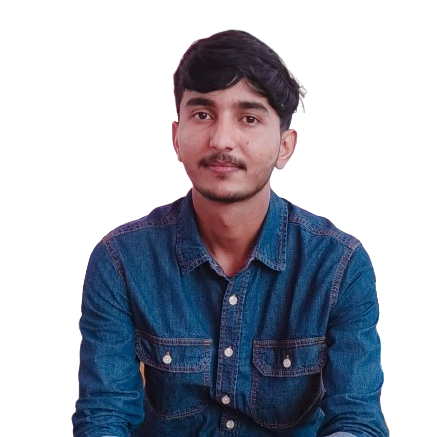
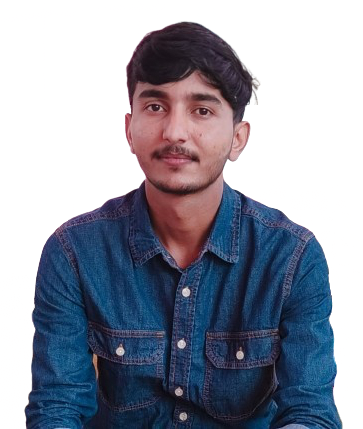
Some improvements

diff --git a/src/sections/About.jsx b/src/sections/About.jsx
@@ -8,7 +8,7 @@ export default function ({ setShowContact, aboutRef }) {
       ref={aboutRef}
       className="scroll-mt-16 w-full mb-8 my-4 py-8 lg:px-12 md:px-4 sm:px-2"
     >
-      <h1 className="font-bold lg:text-5xl md:text-4xl text-4xl text-center text-[var(--text)] my-12">
+      <h1 className="font-bold lg:text-5xl md:text-4xl text-4xl text-center text-[var(--text)] my-8">
         <span className="text-[var(--text-green)]">Who</span> I Am
       </h1>
       <div className="flex sm:flex-row flex-col items-center w-full h-full">
@@ -16,41 +16,27 @@ export default function ({ setShowContact, aboutRef }) {
           <img
             src={MyPhoto}
             alt="profile-picture"
-            className="profile-image sm:w-[75%] w-[60%]"
+            className="profile-image w-[50%] bg-[var(--bg-light)] rounded-2xl shadow-2xl"
           />
-          <h1 className="text-2xl text-[var(--text-green-light)] my-4 py-2">
-            👋🏻 Hello
-          </h1>
         </div>
         <div className="lg:w-[45%] md:w-[70%] sm:w-[60%] w-[85%] text-[var(--text)] leading-relaxed lg:text-base text-sm px-4">
           <p className="my-4">
-            Hi, I'm Suresh Jat, a passionate full-stack web developer and
-            problem solver who loves turning ideas into real-world digital
-            experiences. My journey started with a deep curiosity about how the
-            web works, which led me to explore everything from data structures
-            and algorithms to building full-stack applications using modern
-            frameworks.
+            Hi, I'm Suresh Jat, a passionate full-stack web developer who loves
+            turning ideas into real-world digital experiences. My journey began
+            with curiosity about how the web works, which led me from mastering
+            data structures and algorithms to building full-stack applications
+            with modern frameworks.
           </p>
           <p className="my-4">
-            I'm currently focused on building clean, performant, and
-            user-friendly web apps with the MERN stack (MongoDB, Express, React,
-            Node.js). Alongside that, I'm constantly improving my skills in
-            authentication, real-time communication, and responsive UI
-            development.
+            I specialize in the MERN stack (MongoDB, Express, React, Node.js),
+            creating clean, performant, and user-friendly web apps. Alongside
+            development, I actively practice DSA through platforms like
+            LeetCode, which strengthens my ability to write optimized and
+            scalable code. Balancing logic and creativity, I enjoy everything
+            from designing backend systems to crafting responsive, pixel-perfect
+            frontends.
           </p>
-          <p className="my-4">
-            What truly drives me is the balance between logic and creativity —
-            whether I'm writing elegant backend logic or crafting pixel-perfect
-            frontends. I enjoy collaborating, debugging complex issues, and
-            learning new tools that can make development more efficient and
-            enjoyable.
-          </p>
-          <p className="my-4">
-            In addition to development, I'm deeply interested in solving
-            algorithmic problems and have actively practiced DSA (Data
-            Structures & Algorithms) through platforms like LeetCode. This helps
-            me write optimized and scalable code.
-          </p>
+
           <div>
             <ContactButton setShowContact={setShowContact} />
           </div>

diff --git a/src/Components/SkillBox.jsx b/src/Components/SkillBox.jsx
@@ -20,7 +20,7 @@ export default function SkillBox({ techStack }) {
               duration: 0.3,
             }}
             key={ind}
-            className="text-[var(--text)] md:min-h-24 md:min-w-24 sm:min-h-12 sm:min-w-12 min-h-4 min-w-4 sm:m-2 sm:p-5 m-2 p-3 flex flex-col justify-center items-center gap-3 rounded-lg bg-[var(--bg-light)] shadow hover:shadow-xl md:text-base text-sm"
+            className="text-[var(--text)] md:min-h-24 md:min-w-24 sm:min-h-12 sm:min-w-12 min-h-2 min-w-2 sm:m-2 sm:p-5 m-2 p-3 flex flex-col justify-center items-center gap-3 rounded-lg bg-[var(--bg-light)] shadow hover:shadow-xl md:text-base text-sm"
           >
             {tech[0]}
             {TechIcon(tech[1])}

diff --git a/src/Components/Robot_3D.jsx b/src/Components/Robot_3D.jsx
@@ -12,7 +12,7 @@ export default function Robot_3D() {
 
   if (!show3D) return null;
   return (
-    <main className="absolute bottom-2 xl:right-[30vw] lg:right-[20vw] md:right-[5vw] sm:right-0 hidden md:block z-[-2]">
+    <main className="absolute bottom-2 xl:right-[30vw] lg:right-[20vw] md:right-[5vw] sm:right-0 invisible md:visible z-[-2]">
       <Spline scene="https://prod.spline.design/ORSx8xXoW8l5ugqd/scene.splinecode" />
       <div className="absolute h-14 w-40 bg-[var(--bg)] bottom-2 right-0 hidden md:block"></div>
     </main>

diff --git a/src/App.css b/src/App.css
@@ -40,6 +40,6 @@ body {
   animation-play-state: paused;
 }
 
-.profile-image {
+/* .profile-image {
   filter: drop-shadow(4px 4px 8px black);
-}
+} */
